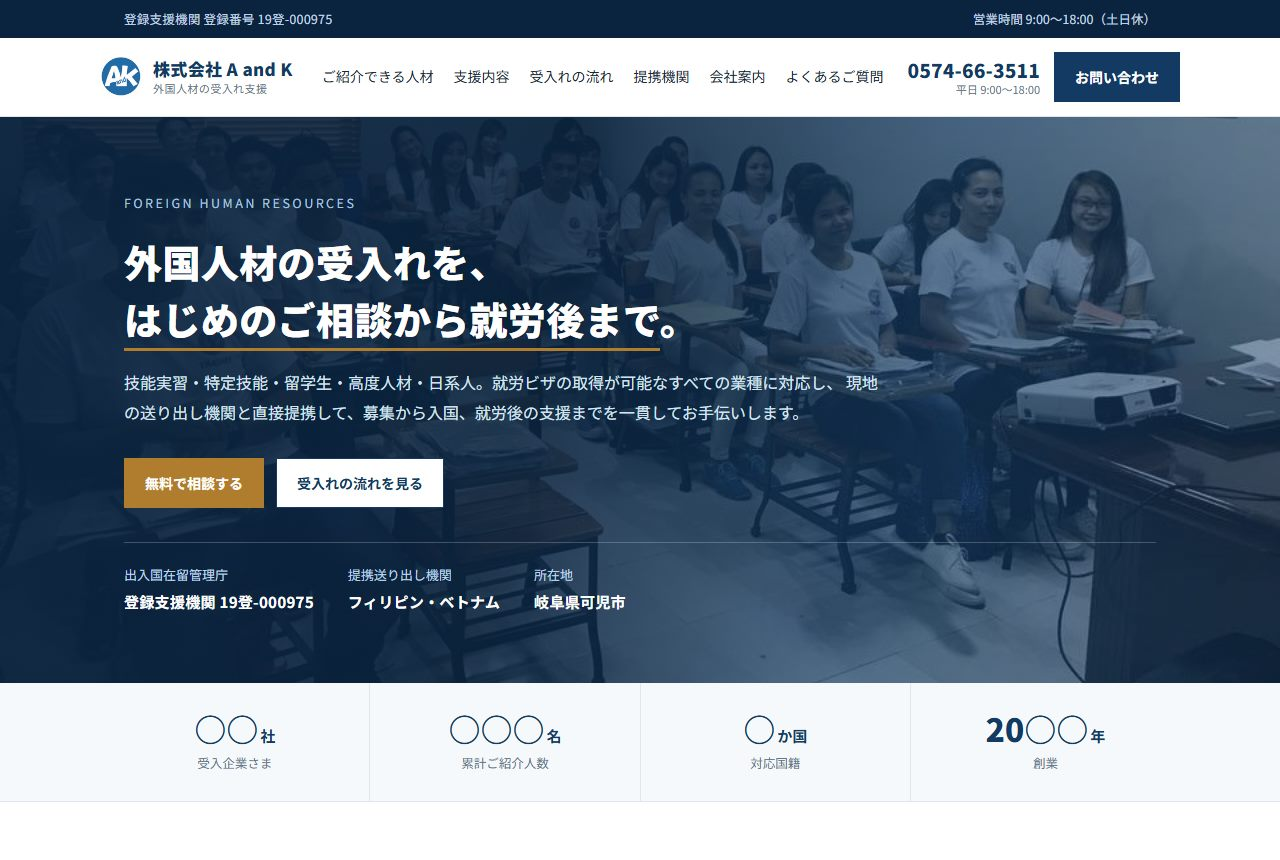
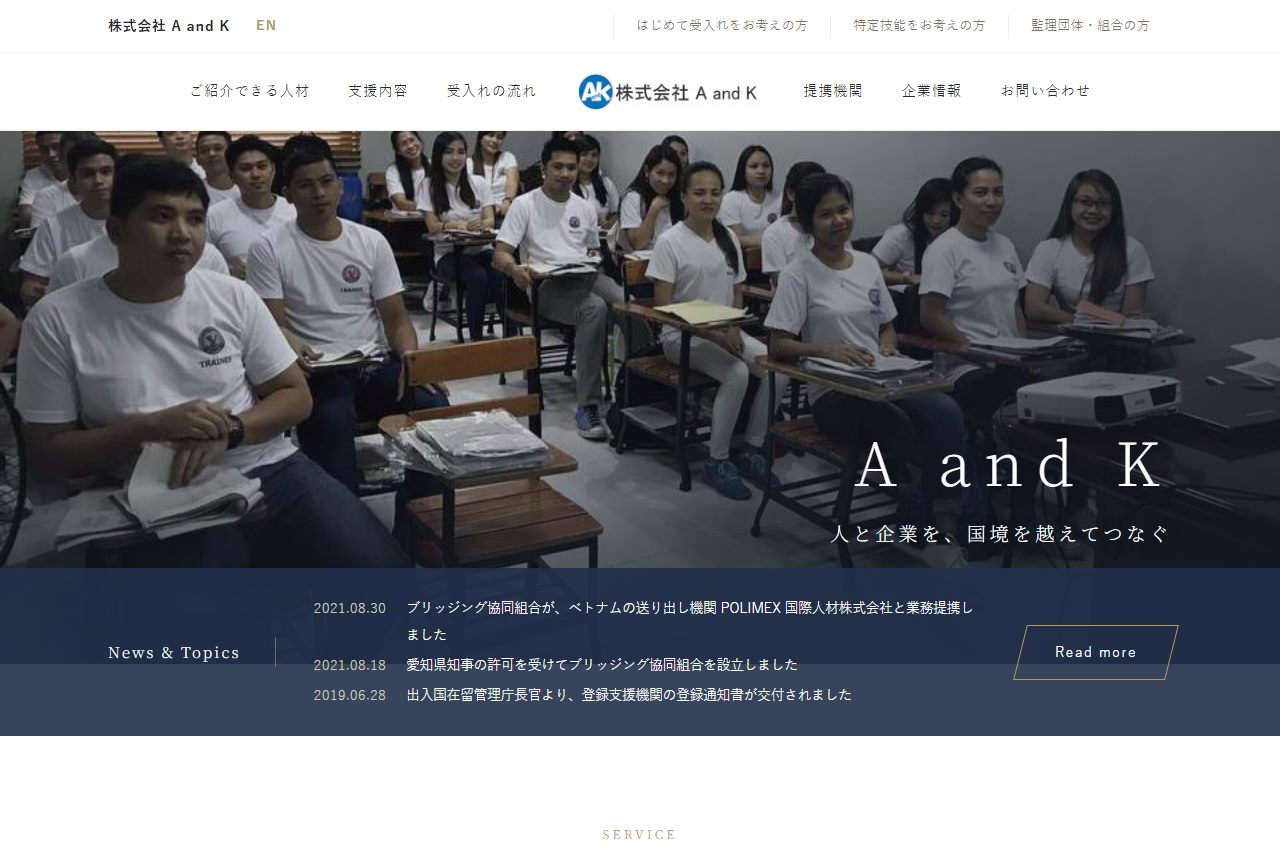
案Aの差し替えに合わせて提案書を更新
キャプチャを新しい案（明朝・金茶）に差し替え、説明文も
「確かさと品位」「明朝体を細く大きく、字間をゆったり」に。
ロゴの位置も左上→上部中央に直した。

diff --git a/index.html b/index.html
@@ -311,16 +311,17 @@ td.num{text-align:right; font-variant-numeric:tabular-nums}
       <div class="shot">
         <img src="img/preview-a.jpg" alt="デザイン案Aのトップページ" width="1280" height="860">
         <div class="shot-cap">
-          <span class="nm">案A ― きっちり</span>
+          <span class="nm">案A ― 明朝と余白で、落ち着いた品位を</span>
           <a href="https://k-matsumoto527.github.io/aandk-design/plan-a.html" target="_blank" rel="noopener">実物を見る</a>
         </div>
       </div>
       <p style="margin-top:18px">御社のお客さまは、外国人材の受入れを検討している企業のご担当者です。
-        やわらかさや親しみよりも、<b>確かさが伝わること</b>を優先しました。
-        濃紺と細い罫線で整え、丸みや影は使っていません。</p>
+        やわらかさや親しみよりも、<b>確かさと品位が伝わること</b>を優先しました。
+        見出しは明朝体を細く大きく、字間をゆったり取り、白と余白を基調にしています。
+        差し色は落ち着いた金茶を一色だけ使いました。</p>
       <ul class="pts">
         <li><b>登録番号を2か所に</b>最上部の帯と、トップの見出しの下。信用の要になる情報です。</li>
-        <li><b>いまのロゴをそのまま</b>現在お使いの青いマークを、そのまま左上に置いています。</li>
+        <li><b>いまのロゴをそのまま</b>現在お使いのロゴを、上部の中央に置いています。</li>
         <li><b>いまのお写真を活用</b>提携先での授業風景を、トップと提携機関の欄に使いました。</li>
         <li><b>数字を上のほうに</b>受入企業数・ご紹介人数などをいただき次第、入れ替えます。</li>
       </ul>

diff --git a/src/proposal-aandk.html b/src/proposal-aandk.html
@@ -287,16 +287,17 @@ td.num{text-align:right; font-variant-numeric:tabular-nums}
       <div class="shot">
         <img src="img/preview-a.jpg" alt="デザイン案Aのトップページ" width="1280" height="860">
         <div class="shot-cap">
-          <span class="nm">案A ― きっちり</span>
+          <span class="nm">案A ― 明朝と余白で、落ち着いた品位を</span>
           <a href="https://k-matsumoto527.github.io/aandk-design/plan-a.html" target="_blank" rel="noopener">実物を見る</a>
         </div>
       </div>
       <p style="margin-top:18px">御社のお客さまは、外国人材の受入れを検討している企業のご担当者です。
-        やわらかさや親しみよりも、<b>確かさが伝わること</b>を優先しました。
-        濃紺と細い罫線で整え、丸みや影は使っていません。</p>
+        やわらかさや親しみよりも、<b>確かさと品位が伝わること</b>を優先しました。
+        見出しは明朝体を細く大きく、字間をゆったり取り、白と余白を基調にしています。
+        差し色は落ち着いた金茶を一色だけ使いました。</p>
       <ul class="pts">
         <li><b>登録番号を2か所に</b>最上部の帯と、トップの見出しの下。信用の要になる情報です。</li>
-        <li><b>いまのロゴをそのまま</b>現在お使いの青いマークを、そのまま左上に置いています。</li>
+        <li><b>いまのロゴをそのまま</b>現在お使いのロゴを、上部の中央に置いています。</li>
         <li><b>いまのお写真を活用</b>提携先での授業風景を、トップと提携機関の欄に使いました。</li>
         <li><b>数字を上のほうに</b>受入企業数・ご紹介人数などをいただき次第、入れ替えます。</li>
       </ul>
